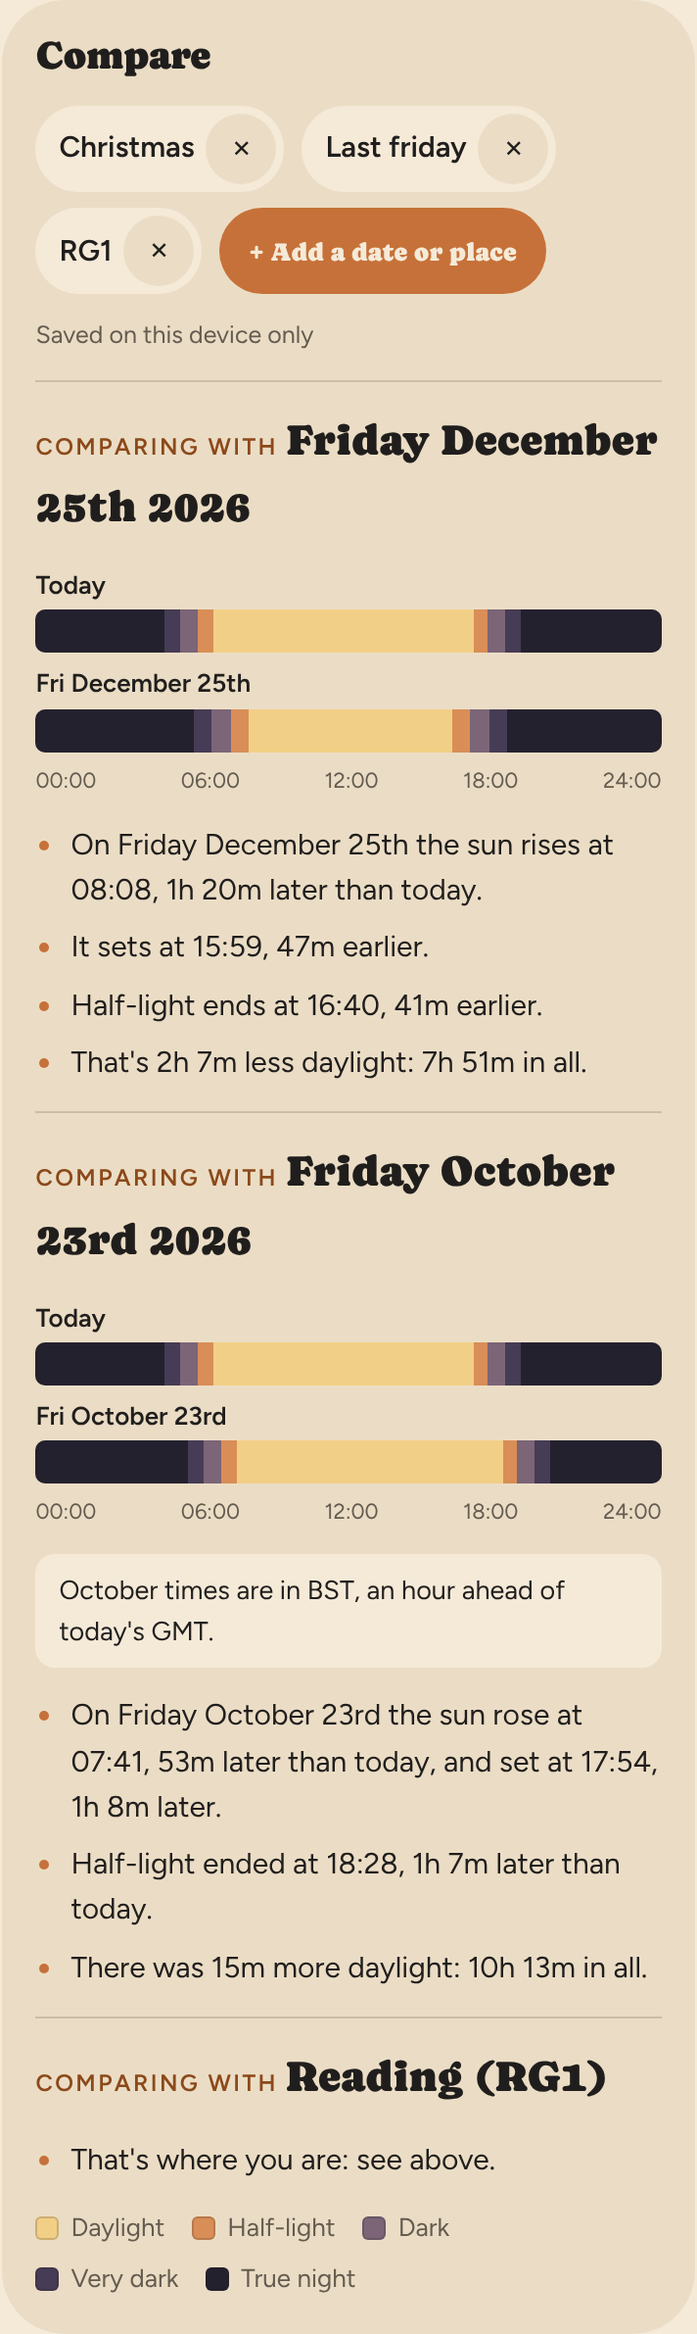
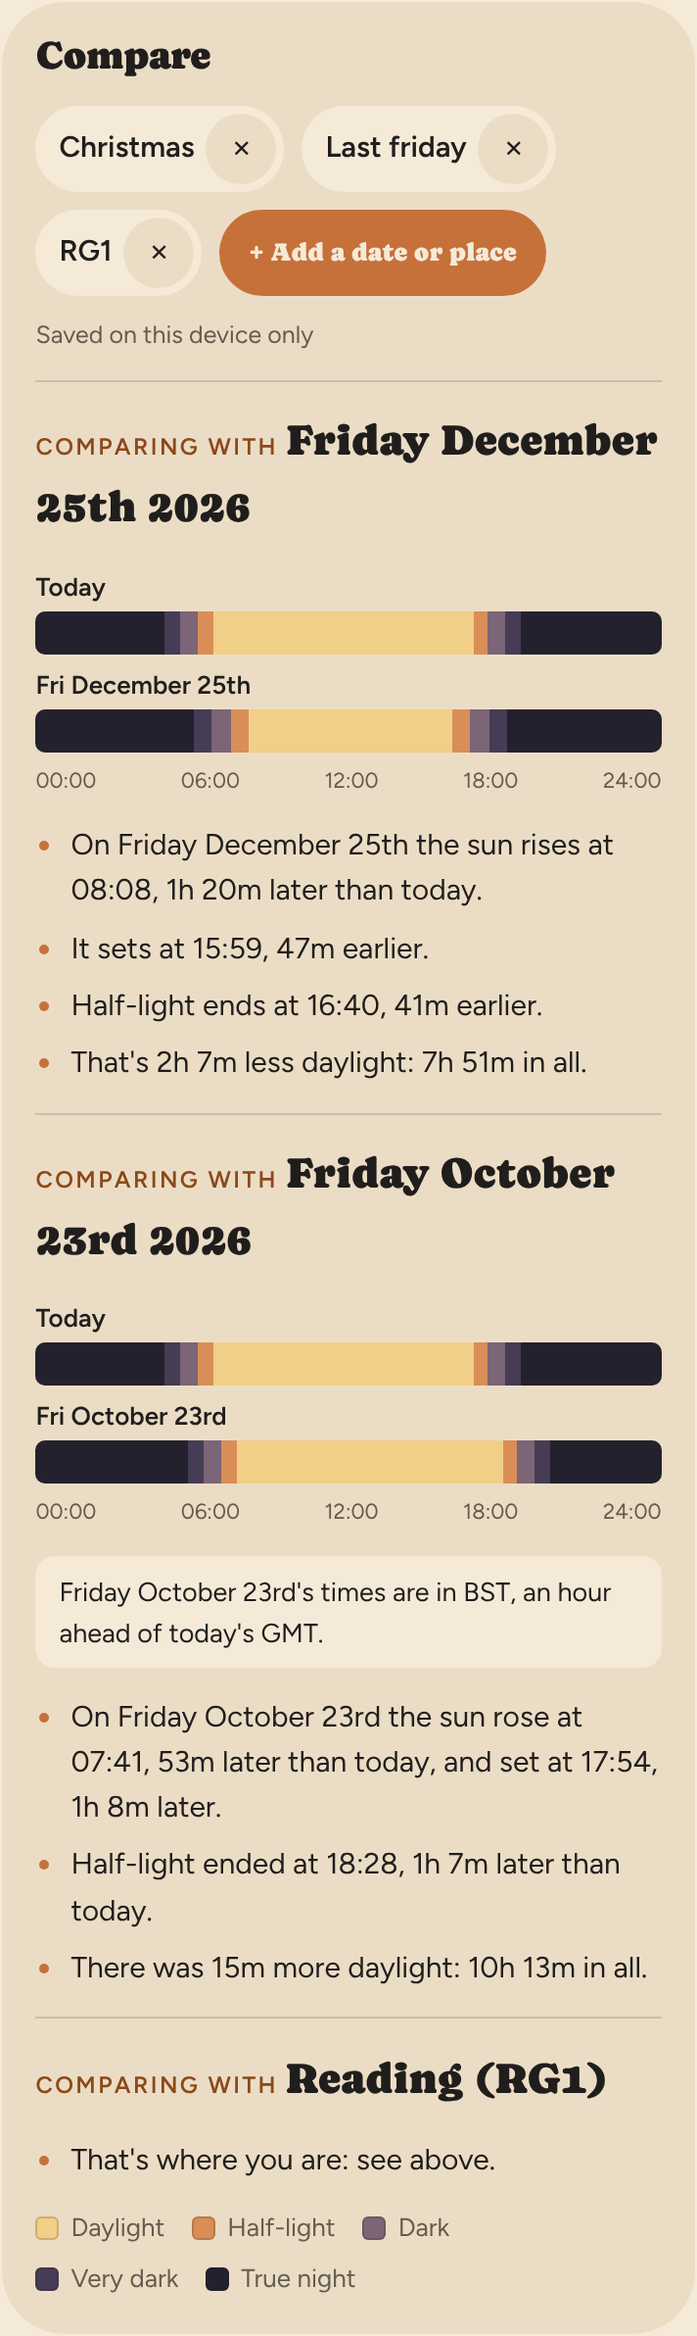
Fresh look, second round: year card as Compare; J5 wording; 2.3, 3.2, 4.4, 5.2, 6.3
Claude-Session: https://claude.ai/code/session_01BsvHLKDMCYVanWPFUm8Pot

diff --git a/src/components/Year.tsx b/src/components/Year.tsx
@@ -4,11 +4,10 @@
 import { useEffect, useMemo, useRef, useState, type KeyboardEvent, type PointerEvent } from 'react'
 import { clockNote, compareDate } from '../lib/compare.ts'
 import type { District } from '../lib/postcode.ts'
-import { clockSeconds } from '../lib/sentences/context.ts'
-import { dayFigures, daylight } from '../lib/sun.ts'
+import { dayFigures } from '../lib/sun.ts'
 import { DayStrip, SHORT } from './Compare.tsx'
 import { BANDS } from '../lib/bands.ts'
-import { clock, duration, longDate, ordinal, weekday } from '../lib/format.ts'
+import { longDate, ordinal, weekday } from '../lib/format.ts'
 import { dayDetail, type DayRow, type YearView } from '../lib/yearView.ts'
 import { addDays } from '../lib/ukTime.ts'
 import { Legend } from './SkyRibbon.tsx'
@@ -169,53 +168,34 @@ function MonthTable({ m, today, highlight, narrow }: { m: YearView['months'][num
   )
 }
 
-/** J10 mock-up (John, 28 October): what the card under the ribbon says for a day other than
- *  today. Chosen with ?j10=a or ?j10=b in the address while John decides; to be removed then.
- *  (a) each time with its difference from today in brackets, as This fortnight does;
- *  (b) the Compare block: two strips and its sentences. */
-function DayAgainstToday({ d, day, today, variant, row }: { d: District; day: string; today: string; variant: string; row: DayRow }) {
+/** A day other than today, compared with today, as a Compare entry (John, 28 October, J10,
+ *  option B): the chosen day's strip above today's, the BST note when the clocks differ,
+ *  and Compare's sentences. */
+function DayAgainstToday({ d, day, today }: { d: District; day: string; today: string }) {
   const [here, there] = useMemo(() => [dayFigures(d, today), dayFigures(d, day)], [d, today, day])
   const note = clockNote(today, day)
-  if (variant === 'b') {
-    return (
-      <>
-        <div className="pairs">
-          <DayStrip place={d} date={today} label="Today" />
-          <DayStrip place={d} date={day} label={SHORT(day)} />
-          <div className="pair-row pair-axis"><span className="pair-label" /><div className="pair-hours"><span>00:00</span><span>06:00</span><span>12:00</span><span>18:00</span><span>24:00</span></div></div>
-        </div>
-        {note && <p className="clock-note">{note}</p>}
-        <ul className="year-compare">{compareDate(here, there, today).map((s, i) => <li key={i}>{s}</li>)}</ul>
-      </>
-    )
-  }
-  if (!here.sunrise || !here.sunset || !there.sunrise || !there.sunset) return null
-  const by = (a: Date, b: Date) => {
-    const s = clockSeconds(a) - clockSeconds(b)
-    return Math.abs(s) < 60 ? 'the same as today' : `${duration(s * 1000)} ${s > 0 ? 'later' : 'earlier'}`
-  }
-  const diff = daylight(there) - daylight(here)
-  const more = Math.abs(diff) < 60_000 ? 'much the same as today' : `${duration(diff)} ${diff > 0 ? 'more' : 'less'} than today`
   return (
     <>
-      <p className="year-detail-big">
-        <span className="pair">Sunrise {clock(there.sunrise)}</span> <span className="year-by">({by(there.sunrise, here.sunrise)})</span>
-        <span className="dot"> · </span>
-        <span className="pair">Sunset {clock(there.sunset)}</span> <span className="year-by">({by(there.sunset, here.sunset)})</span>
-      </p>
-      <p>{duration(daylight(there))} of daylight ({more}). {dayDetail(row).split('. ').slice(1).join('. ')}</p>
+      <div className="pairs">
+        <DayStrip place={d} date={day} label={SHORT(day)} />
+        <DayStrip place={d} date={today} label="Today" />
+        <div className="pair-row pair-axis"><span className="pair-label" /><div className="pair-hours"><span>00:00</span><span>06:00</span><span>12:00</span><span>18:00</span><span>24:00</span></div></div>
+      </div>
       {note && <p className="clock-note">{note}</p>}
+      <ul className="year-compare">{compareDate(here, there, today).map((s, i) => <li key={i}>{s}</li>)}</ul>
     </>
   )
 }
 
 export function YearCards({ v, narrow, place, d }: { v: YearView | null; narrow: boolean; place: string; d: District }) {
-  const variant = new URLSearchParams(location.search).get('j10')
   const [chosen, setChosen] = useState<string | null>(null)
   const [open, setOpen] = useState<string | null>(null)
   const [highlight, setHighlight] = useState<string | null>(null)
   const daysCard = useRef<HTMLElement>(null)
   const scrollTo = useRef<string | null>(null)
+  // Bumped by "See all of …", so it scrolls to the day even when that month is already open
+  // (the fresh look, 5.2).
+  const [seeAllCount, setSeeAllCount] = useState(0)
 
   // After "See all of …", bring the month, at the chosen day, into view.
   useEffect(() => {
@@ -224,7 +204,7 @@ export function YearCards({ v, narrow, place, d }: { v: YearView | null; narrow:
     scrollTo.current = null
     const row = daysCard.current.querySelector(`[data-date="${date}"]`)
     ;(row ?? daysCard.current).scrollIntoView({ block: 'center', behavior: 'smooth' })
-  }, [open])
+  }, [open, seeAllCount])
 
   if (!v) {
     return (
@@ -242,6 +222,7 @@ export function YearCards({ v, narrow, place, d }: { v: YearView | null; narrow:
     scrollTo.current = date
     setHighlight(date)
     setOpen(date.slice(0, 7))
+    setSeeAllCount((n) => n + 1)
   }
   const choose = (m: string | null) => {
     setHighlight(null)
@@ -268,8 +249,8 @@ export function YearCards({ v, narrow, place, d }: { v: YearView | null; narrow:
         {row && (
           <div className="year-detail" aria-live="polite">
             <div className="kicker">{longDate(day, true)}{day === v.today ? ' · Today' : ''}</div>
-            {variant && day !== v.today ? (
-              <DayAgainstToday d={d} day={day} today={v.today} variant={variant} row={row} />
+            {day !== v.today ? (
+              <DayAgainstToday d={d} day={day} today={v.today} />
             ) : (
               <>
                 <p className="year-detail-big">{riseSetLines(row)}</p>

diff --git a/scripts/check-sentences.ts b/scripts/check-sentences.ts
@@ -55,7 +55,7 @@ check('Reading, Tuesday October 27th 2026 at 09:02: every group', () => {
       'The sun is up by 07:30 until Friday November 20th.',
     ] },
     { heading: 'Is it light at 17:30?', sentences: [
-      "It's dark at 17:30 until Monday February 1st.",
+      'Half-light lasts past 17:30 from Tuesday February 2nd.',
       'The sun is up at 17:30 again from Monday February 22nd.',
     ] },
     { heading: 'Darkness', sentences: [
@@ -125,10 +125,15 @@ check('is it light at…?: clock changes end a run and say so; always and never'
     "It's always dark at 01:00 here.",
     'The sun is never up at 01:00 here.',
   ])
-  assert.deepEqual(lightAtSentences(ctxFor('RG1', '2026-10-27T09:02:00Z'), '12:00'), [
-    '12:00 is always at least half-light here. Even on the darkest evenings, Friday December 11th and Saturday December 12th, half-light ends at 16:35.',
-    'The sun is always up at 12:00 here.',
+  // Daylight all year: one plain sentence (the fresh look, 3.2).
+  assert.deepEqual(lightAtSentences(ctxFor('RG1', '2026-10-27T09:02:00Z'), '12:00'), ['12:00 is always daylight here.'])
+  assert.deepEqual(lightAtSentences(ctxFor('RG1', '2026-10-27T09:02:00Z'), '16:00'), [
+    '16:00 is always at least half-light here. Even on the darkest evenings, Friday December 11th and Saturday December 12th, half-light ends at 16:35.',
+    'The sun is still up at 16:00 until Saturday November 28th.',
   ])
+  // J5: dark now, so when half-light first reaches the time (John, 28 October).
+  assert.equal(lightAtSentences(ctxFor('RG1', '2026-10-27T09:02:00Z'), '05:15')[0], 'Half-light starts by 05:15 from Saturday April 24th.')
+  assert.equal(lightAtSentences(ctxFor('RG1', '2026-10-27T09:02:00Z'), '19:00')[0], 'Half-light lasts past 19:00 from Saturday March 27th.')
 })
 
 check('is it light at…?: "from tomorrow" when today is the last day', () => {
@@ -187,11 +192,14 @@ check('darkness: "No true night from …" only when it starts within ten weeks (
 })
 
 check('the fresh look and John\'s amendments (28 October)', () => {
+  // 2.3: daylight records give the date, never "since the clocks went back".
+  assert.ok(recordSentences(ctxFor('RG1', '2027-02-17T10:00:00Z')).includes('The longest day since Saturday October 24th.'))
+  // 4.4 is in check-page.ts.
   // 3.1: only the first run of near-tied darkest days, never the same days a year on.
-  assert.equal(lightAtSentences(ctxFor('RG1', '2026-12-11T10:00:00Z'), '12:00')[0],
-    '12:00 is always at least half-light here. Even on the darkest evenings, Friday December 11th and Saturday December 12th, half-light ends at 16:35.')
-  assert.equal(lightAtSentences(ctxFor('RG1', '2026-12-12T10:00:00Z'), '12:00')[0],
-    '12:00 is always at least half-light here. Even on the darkest evening, Saturday December 12th, half-light ends at 16:35.')
+  assert.equal(lightAtSentences(ctxFor('RG1', '2026-12-11T10:00:00Z'), '16:00')[0],
+    '16:00 is always at least half-light here. Even on the darkest evenings, Friday December 11th and Saturday December 12th, half-light ends at 16:35.')
+  assert.equal(lightAtSentences(ctxFor('RG1', '2026-12-12T10:00:00Z'), '16:00')[0],
+    '16:00 is always at least half-light here. Even on the darkest evening, Saturday December 12th, half-light ends at 16:35.')
   // J1: the daylight line only across a clock change.
   assert.deepEqual(fortnightSentences(ctxFor('RG1', '2026-11-10T10:00:00Z')), [
     'A week ago the sun rose at 07:01 (12m earlier) and set at 16:33 (12m later).',

diff --git a/src/lib/sentences/lightAt.ts b/src/lib/sentences/lightAt.ts
@@ -51,22 +51,33 @@ export function lightAtSentences(ctx: SkyContext, time: TimeOfDay): string[] {
   const t = minutesOf(time)
   const days = year(ctx)
   const morning = t < shown(days[0].noon)
-  return [lightSentence(ctx, days, time, t, morning), sunSentence(ctx, days, time, t, morning)]
+  return [lightSentence(ctx, days, time, t, morning), sunSentence(ctx, days, time, t, morning)].filter((s) => s)
 }
 
-/** "It's dark at 17:30 until Monday February 1st." / "It's light at 07:30 until …" /
- *  "07:30 is always at least half-light here. Even on the darkest morning, Friday January
- *  1st, half-light starts at 07:29." */
+/** "Half-light lasts past 17:30 from Tuesday February 2nd." / "It's light at 07:30 until …"
+ *  / "07:30 is always at least half-light here. Even on the darkest morning, Friday January
+ *  1st, half-light starts at 07:29." / "12:00 is always daylight here." */
 function lightSentence(ctx: SkyContext, days: DayFigures[], time: TimeOfDay, t: number, morning: boolean): string {
   const light = lightAt(days[0], t)
   const c = change(days, (d) => lightAt(d, t))
   if (c && c.last.date === ctx.today) return `From tomorrow it's ${light ? 'dark' : 'light'} at ${time}.`
-  if (c) {
-    const state = light ? 'light' : 'dark'
+  if (c && light) {
     const end = c.byClocks ? `until ${clockWords(ctx, addDays(c.last.date, 1))}` : `until ${dateIn(ctx, c.last.date)}`
-    return `It's ${state} at ${time} ${end}.`
+    return `It's light at ${time} ${end}.`
+  }
+  if (c) {
+    // Dark now: when half-light first reaches the time, in the site's own words (John, 28
+    // October, J5): "Half-light starts by 05:15 from Friday April 23rd." In the evening a
+    // half-light ending on the minute counts as dark (rule C), hence "past".
+    const next = addDays(c.last.date, 1)
+    const clocks = c.byClocks ? `, when the clocks go ${offsetOn(next) > offsetOn(c.last.date) ? 'forward' : 'back'}` : ''
+    return morning
+      ? `Half-light starts by ${time} from ${dateIn(ctx, next)}${clocks}.`
+      : `Half-light lasts past ${time} from ${dateIn(ctx, next)}${clocks}.`
   }
   if (!light) return `It's always dark at ${time} here.`
+  // Daylight all year: said plainly (the fresh look, 3.2).
+  if (days.every((d) => sunUpAt(d, t))) return `${time} is always daylight here.`
   // Always light: name the darkest morning (latest half-light start) or evening (earliest end).
   const event = morning ? 'civilDawn' : 'civilDusk'
   const withEvent = days.filter((d) => d[event])
@@ -90,7 +101,8 @@ function sunSentence(ctx: SkyContext, days: DayFigures[], time: TimeOfDay, t: nu
   const up = sunUpAt(days[0], t)
   const c = change(days, (d) => sunUpAt(d, t))
   const by = morning ? 'up by' : 'up at'
-  if (!c) return up ? `The sun is always ${by} ${time} here.` : `The sun is never up at ${time} here.`
+  // (When the sun is always up, the first sentence has said so: "12:00 is always daylight here.")
+  if (!c) return up ? '' : `The sun is never up at ${time} here.`
   const next = addDays(c.last.date, 1)
   if (c.last.date === ctx.today) {
     if (up) return morning ? `Today is the last day the sun is up by ${time}.` : `Today is the last day the sun is still up at ${time}.`

diff --git a/src/styles/global.css b/src/styles/global.css
@@ -198,7 +198,6 @@ body { margin: 0; background: var(--color-bg); }
 .day-cards li.clock-mark { padding: 4px 2px; }
 .day-cards li.is-today { background: color-mix(in srgb, var(--color-accent) 22%, var(--color-bg)); }
 .year-detail-big .pair { white-space: nowrap; }
-.year-by { font-family: var(--font-body, inherit); font-size: 14px; color: var(--color-neutral-700); white-space: nowrap; }
 .year-detail .pairs { width: 100%; }
 .year-detail .clock-note { background: var(--color-surface); }
 .year-compare { margin: 0; padding-left: 18px; display: flex; flex-direction: column; gap: 4px; font-size: 14px; }
@@ -223,7 +222,12 @@ body { margin: 0; background: var(--color-bg); }
   .compare { padding: var(--space-4); }
   .pair-row { grid-template-columns: 1fr; gap: 2px; }
   .pair-axis .pair-label { display: none; }
-  .chip button { width: 36px; height: 36px; }
+  /* 44px to tap on a phone (house rule; the fresh look, 6.3). The chips' ✕ keeps its look
+     and gains a larger tap area around it. */
+  .chip button { width: 36px; height: 36px; position: relative; }
+  .chip button::after { content: ''; position: absolute; inset: -4px; }
+  .choose-row .input, .choose-row .btn { min-height: 44px; }
+  .link-button, .ribbon-fold-note { min-height: 44px; display: inline-flex; align-items: center; }
   .chip-button { min-height: 44px; }
   .about-row { grid-template-columns: 1fr; gap: 0; }
   .btn-small { min-height: 44px; }

diff --git a/src/lib/compare.ts b/src/lib/compare.ts
@@ -75,6 +75,9 @@ export function readTarget(typed: string, place: Place, today: string): Target {
   }
   if (text === 'longest day' || text === 'shortest day') return { kind: 'date', date: solsticeDay(place, today, text === 'longest day', last) }
 
+  // "25.12" and "25-12" as "25/12" (the fresh look, 4.4).
+  if (/^\d{1,2}[.-]\d{1,2}([.-]\d{2,4})?$/.test(text)) text = text.replace(/[.-]/g, '/')
+
   // "march 28" would be read as March of the year 28; "28 march" is meant.
   text = text.replace(/^([a-z]+) (\d{1,2})$/, '$2 $1')
 
@@ -112,8 +115,11 @@ function by(a: Date, b: Date): string {
  *  BST, an hour ahead of today's GMT." */
 export function clockNote(today: string, other: string): string | null {
   if (isBst(today) === isBst(other)) return null
+  // "July times …"; within today's own month, the day itself: "Wednesday October 7th's
+  // times …" (the year card compares any day, so the month can be the same).
   const month = longDate(other).split(' ')[1]
-  return isBst(other) ? `${month} times are in BST, an hour ahead of today's GMT.` : `${month} times are in GMT, an hour behind today's BST.`
+  const whose = month === longDate(today).split(' ')[1] ? `${longDate(other)}'s` : month
+  return isBst(other) ? `${whose} times are in BST, an hour ahead of today's GMT.` : `${whose} times are in GMT, an hour behind today's BST.`
 }
 
 /** Comparing today with another date, here (SPEC §8). */

diff --git a/scripts/check-page.ts b/scripts/check-page.ts
@@ -166,7 +166,7 @@ check('is it light at…?: the strip agrees with the sentences, day by day', () 
   const year = yearChanges(RG1, ctx.today)
   const at = lightAtYear(ctx, year, '17:30')
   assert.equal(at.today, 'dark')
-  assert.deepEqual(at.sentences, ["It's dark at 17:30 until Monday February 1st.", 'The sun is up at 17:30 again from Monday February 22nd.'])
+  assert.deepEqual(at.sentences, ['Half-light lasts past 17:30 from Tuesday February 2nd.', 'The sun is up at 17:30 again from Monday February 22nd.'])
   const day = (date: string) => at.strip[Math.round((Date.parse(date) - Date.parse(at.from)) / 86_400_000)]
   const light = (b: string) => b === 'daylight' || b === 'half-light'
   assert.ok(!light(day('2027-02-01')))
@@ -227,6 +227,8 @@ check('fresh look: names for every district; "last Friday"; towns by postcode (2
   assert.deepEqual(t('last friday'), { kind: 'date', date: '2026-10-23' })
   assert.deepEqual(t('Last friday'), { kind: 'date', date: '2026-10-23' })
   assert.deepEqual(t('last july 14th'), { kind: 'date', date: '2026-07-14' })
+  assert.deepEqual(t('25.12'), { kind: 'date', date: '2026-12-25' })
+  assert.deepEqual(t('14-7-2027'), { kind: 'date', date: '2027-07-14' })
   const reading = t('Reading')
   assert.ok(reading.kind === 'error' && reading.message.includes('type its postcode'))
 })

diff --git a/src/lib/sentences/records.ts b/src/lib/sentences/records.ts
@@ -45,7 +45,9 @@ export function recordSentences(ctx: SkyContext): string[] {
         return v !== null && beats(v)
       })
       if (!d || daysBetween(d.date, ctx.today) < RECORD_MIN_DAYS) continue
-      const acrossChange = offsetOn(d.date) !== offsetOn(addDays(d.date, 1))
+      // Daylight isn't moved by the clocks, so its records always give the date (the fresh
+      // look, 2.3; John, 28 October): "The longest day since Saturday October 24th."
+      const acrossChange = m.low !== 'shortest day' && offsetOn(d.date) !== offsetOn(addDays(d.date, 1))
       if (acrossChange) {
         out.push(`The ${label} since the clocks went ${offsetOn(d.date) > offsetOn(addDays(d.date, 1)) ? 'back' : 'forward'}.`)
       } else if (daysBetween(d.date, ctx.today) >= 365) {

diff --git a/CLAUDE.md b/CLAUDE.md
@@ -866,3 +866,50 @@ one numbered list; nothing built yet.
 - Before-and-after pictures: `design/previews/fl-before-*.png` and `fl-after-*.png`.
 
 **Couldn't be checked:** a real phone's swipe.
+
+### 2026-10-28 — John's second round on the fresh look (branch `claude/nice-goodall-j1r6wu`)
+
+**John:**
+- **J10:** option B, with the chosen day's strip above today's.
+- **J3:** dropped, as duplication.
+- **J5:** yes to both wordings.
+- **2.1:** he didn't follow the point, so it's to be explained again.
+- **2.3, 3.2, 4.4, 5.2 and 6.3:** yes.
+
+**What:**
+- `Year.tsx`: option B for any day other than today. The chosen day's strip comes first,
+  then today's, then the BST note and `compareDate()`'s sentences. The `?j10` mock-up switch
+  and option A are gone.
+- `compare.ts`: `clockNote()` names the day itself when it's in today's month ("Wednesday
+  October 7th's times are in BST…"), since the year card can pick one.
+- `lightAt.ts` (J5): "Half-light starts by 05:15 from Saturday April 24th." /
+  "Half-light lasts past 17:30 from Tuesday February 2nd." The latter replaces "It's dark at
+  17:30 until Monday February 1st." "Past" rather than John's "until 17:30 or later",
+  because a half-light ending on the minute counts as dark (rule C).
+  - John's example date was April 23rd; that is the last dark day, so half-light first
+    reaches 05:15 on the 24th.
+  - A clock change ending the run adds ", when the clocks go forward/back".
+- `lightAt.ts` (3.2): daylight all year gives one sentence, "12:00 is always daylight here."
+  The second sentence ("The sun is always up at 12:00 here.") is dropped as the same thing.
+- `records.ts` (2.3): the shortest and longest day records always give the date.
+- `compare.ts` (4.4): "25.12" and "25-12" are read as "25/12".
+- `Year.tsx` (5.2): "See all of …" scrolls to the day even when that month is already open.
+- `global.css` (6.3), on a phone:
+  - the postcode and Compare boxes and their buttons are 44px;
+  - "See all of …" and the fold note are 44px;
+  - the chips' ✕ keeps its look, with a 44px tap area around it.
+- SPEC §6 and §9 annotated.
+
+**Verified:**
+- `npx tsc -b`, lint, `npm run check` (14 + 14 + 12). Checks updated with real figures: Reading's
+  17:30 sentence, 05:15 and 19:00, 12:00 and 16:00 (the 3.1 check moved to 16:00, now 12:00
+  is "always daylight"), the longest-day record on February 17th 2027, and "25.12" and
+  "14-7-2027".
+- In Chromium:
+  - at 390px with touch: the boxes, buttons, link and fold note are 44px; October open,
+    October 7th chosen on the ribbon, "See all of October" scrolls to its row;
+  - J10 at 1200px and 390px, May 20th against today;
+  - the stage 5, Compare and swipe runs again;
+  - no errors, no sideways scroll.
+- Pictures: `design/previews/j10-final-*.png`, `j10-b-chosen-narrow.png`, and `fl-after-*.png`
+  refreshed.

diff --git a/SPEC.md b/SPEC.md
@@ -115,6 +115,7 @@ Compares with the same weekday a week back and a week ahead.
 - "The latest sunrise since the clocks went back."
   - Rule A hides this today, because the gap is less than 30 days.
 - "Today's daylight matches Sunday February 14th's."
+- **Changed (John, October 28th 2026; fresh look, 2.3):** the shortest and longest day records give the date even when it is just before a clock change ("The longest day since Saturday October 24th."), as the clocks don't change how long a day is.
 
 ### Coming up
 This shows events in the next three months. The clock-change line appears only in the ten weeks before the change.
@@ -144,6 +145,7 @@ This is option B of the "your times" mockup.
   - "It's light at [time] until [date]."
   - "The sun is up by [time] again from [date]."
   - "The sun is still up at [time] until [date]."
+- **Changed (John, October 28th 2026, J5):** when the time is dark today, the first sentence says when half-light first reaches it, in the site's own words: "Half-light starts by 05:15 from Saturday April 24th." and, in the evening, "Half-light lasts past 17:30 from Tuesday February 2nd." ("past", as a half-light ending on the minute counts as dark, rule C). **And (fresh look, 3.2):** a time that is daylight all year says only "12:00 is always daylight here."
 
 ### Darkness
 - "Tonight's true night lasts 10h 19m."
@@ -207,6 +209,7 @@ These are calculated for fixed coordinates, so they need no postcode data outsid
   - Each day is a thin upright strip of band colours, from midnight at the bottom to midnight at the top, with hour lines at 00, 06, 12, 18 and 24 and month labels.
   - A today marker sits on top. Clock changes show as steps.
   - Tapping a day shows a detail card: "Tuesday October 27th 2026: Sunrise 06:48 · Sunset 16:46 · 9h 58m of daylight. Half-light 06:14 to 17:21; very dark from 18:00", plus a link "See all of [month]".
+  - **Changed (John, October 28th 2026, J10, option B):** for a day other than today the card compares it with today, as Compare does: the chosen day's strip above today's, the BST note when the clocks differ, and Compare's sentences.
   - **To check:** how the strips draw in May and August, when true night starts or ends around midnight.
 - **Day by day.**
   - **Folded at rest:** only a row of 13 month buttons shows, with the current month marked.

diff --git a/PLAN.md b/PLAN.md
@@ -226,9 +226,9 @@ Branch: `stage-7-launch`
 - Search: title, description, canonical address, `robots.txt`, `sitemap.xml`
   (`SEO-HANDOVER.md` checklist).
 - A `/fresh-look` review before launch. **Done (27 October, a separate thread;
-  `design/fresh-look-handover-2026-10-27.md`).** Fixes and John's J1–J10 under way (28
-  October); open: J3, J5, J10's choice, and the optional extras 2.1, 2.3, 3.2, 4.4, 5.2,
-  6.3 (John to look at later).
+  `design/fresh-look-handover-2026-10-27.md`).** Fixes and John's J1–J10 built (28
+  October; J3 dropped as duplication); the optional extras 2.3, 3.2, 4.4, 5.2 and 6.3 built;
+  2.1 explained again to John.
 - Astronomy Engine's MIT notice: the worker's script carries it, but the main script
   (which also includes the library) loses it in the build. Keep it there too (28 October).
   **Done (28 October):** the build keeps legal comments (`vite.config.ts`).
